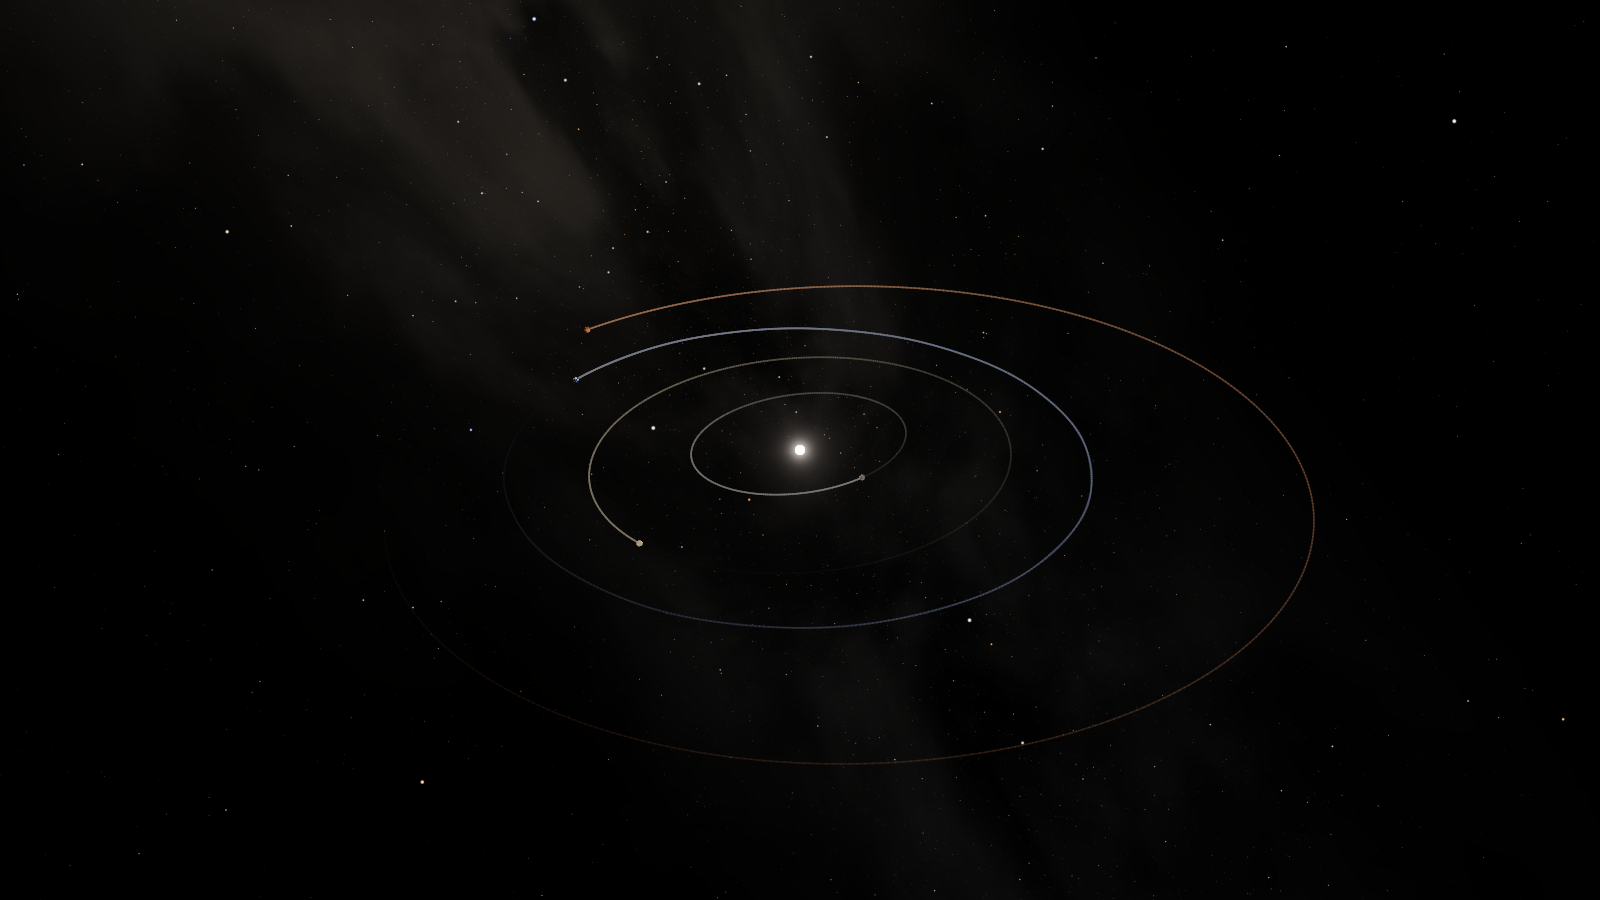
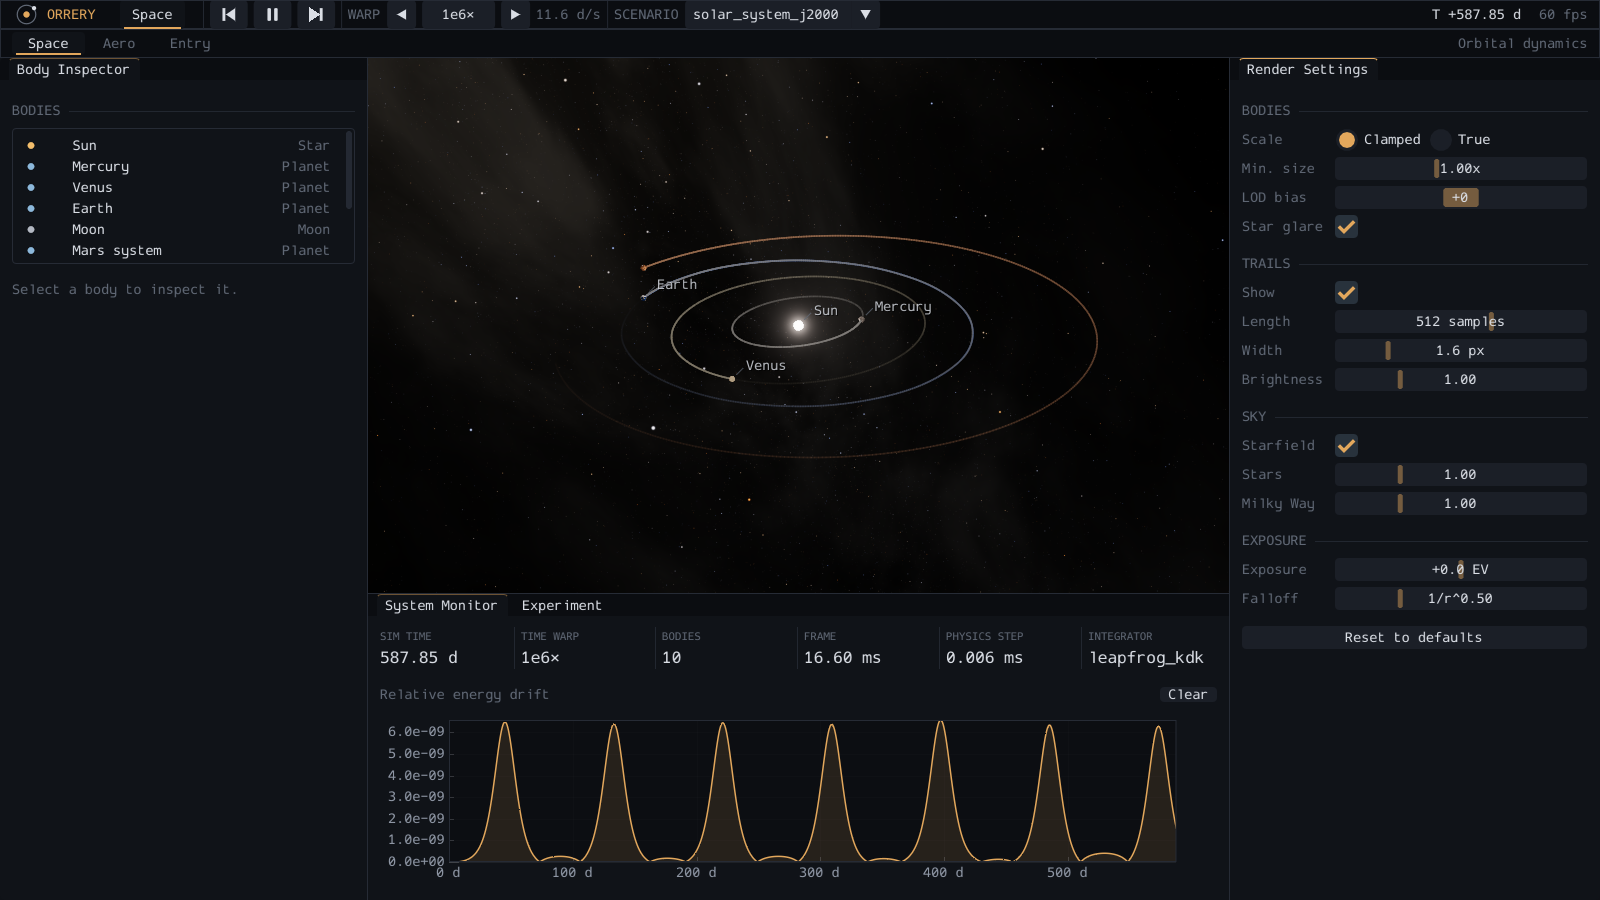
docs: screenshots with the window's docked panels
The Space and Aero images are taken from the hidden window: the solar
system with trails and the System Monitor, the black hole with its disk
and the black-hole settings, the figure-eight, the NACA 0012 lattice
Boltzmann section and the Apollo-type capsule (modified Newtonian) with
the Aero panels, and the stalled NACA 0012 vortex street. The README says
how they are taken.

diff --git a/README.tr.md b/README.tr.md
@@ -114,14 +114,15 @@ kara delik.
 
 ## Ekran görüntüleri
 
-Uygulamanın kendisi tarafından headless kipte (ekran dışında, pencere
-açmadan) çizilmiştir; yeniden üretme komutları
-[docs/screenshots.md](docs/screenshots.md) içindedir.
+Uygulamanın kendisi tarafından alınmıştır: yerleşik panelleriyle pencere,
+gizli açılarak ve hiç gösterilmeden (Entry görüntüsü headless yoldan
+gelir); yeniden üretme komutları [docs/screenshots.md](docs/screenshots.md)
+içindedir.
 
 | | |
 |---|---|
 | ![Yörünge izleriyle J2000 iç Güneş sistemi](docs/images/space-solar-system.png) | ![Schwarzschild merceklenmesiyle bükülmüş ince birikim diskli kara delik](docs/images/space-black-hole.png) |
-| 579 gün sonra yörünge izleriyle J2000 Güneş sistemi | İnce diskin Schwarzschild merceklenmesi: gölge, merceklenmiş uzak taraf, Doppler ile parlayan yaklaşan taraf |
+| Yaklaşık 590 gün sonra yörünge izleriyle J2000 Güneş sistemi | İnce diskin Schwarzschild merceklenmesi: gölge, merceklenmiş uzak taraf, Doppler ile parlayan yaklaşan taraf |
 | ![Sekiz figürü yörüngesindeki üç eşit yıldız](docs/images/space-figure-eight.png) | ![Mach 20'de basınç katsayısına göre renklendirilmiş Apollo tipi kapsül](docs/images/aero-apollo-newtonian.png) |
 | Üç cisimli sekiz figürü koreografisi (4. mertebe Yoshida) | Mach 20 ve 20 derecede Apollo tipi kapsül, değiştirilmiş Newton Cp |
 | ![Yüzeyinde Cp ve çevresinde hız alanı olan NACA 0012 kesiti](docs/images/aero-naca0012-lbm.png) | ![Girdap sokağı bırakan, perdövites durumundaki NACA 0012 kesiti](docs/images/aero-naca0012-stall-wake.png) |

diff --git a/README.md b/README.md
@@ -106,14 +106,15 @@ the three-body figure eight, Sgr A* with the star S2, and a lone black hole.
 
 ## Screenshots
 
-Rendered by the application itself in headless mode (offscreen, no window);
+Taken by the application itself: the window with its docked panels, opened
+hidden and never shown (the Entry image comes from the headless path);
 [docs/screenshots.md](docs/screenshots.md) gives the commands that
 regenerate them.
 
 | | |
 |---|---|
 | ![Inner solar system from J2000 with orbit trails around the Sun](docs/images/space-solar-system.png) | ![Black hole with a thin accretion disk bent by Schwarzschild lensing](docs/images/space-black-hole.png) |
-| J2000 solar system after 579 days, with orbit trails | Schwarzschild lensing of a thin disk: shadow, lensed far side, Doppler-bright approaching side |
+| J2000 solar system after about 590 days, with orbit trails | Schwarzschild lensing of a thin disk: shadow, lensed far side, Doppler-bright approaching side |
 | ![Three equal stars on the figure-eight three-body orbit](docs/images/space-figure-eight.png) | ![Apollo-type capsule coloured by pressure coefficient at Mach 20](docs/images/aero-apollo-newtonian.png) |
 | Figure-eight three-body choreography (Yoshida 4th order) | Apollo-type capsule at Mach 20 and 20 degrees, modified Newtonian Cp |
 | ![NACA 0012 section with Cp on the surface and the speed field around it](docs/images/aero-naca0012-lbm.png) | ![Stalled NACA 0012 section shedding a vortex street](docs/images/aero-naca0012-stall-wake.png) |
